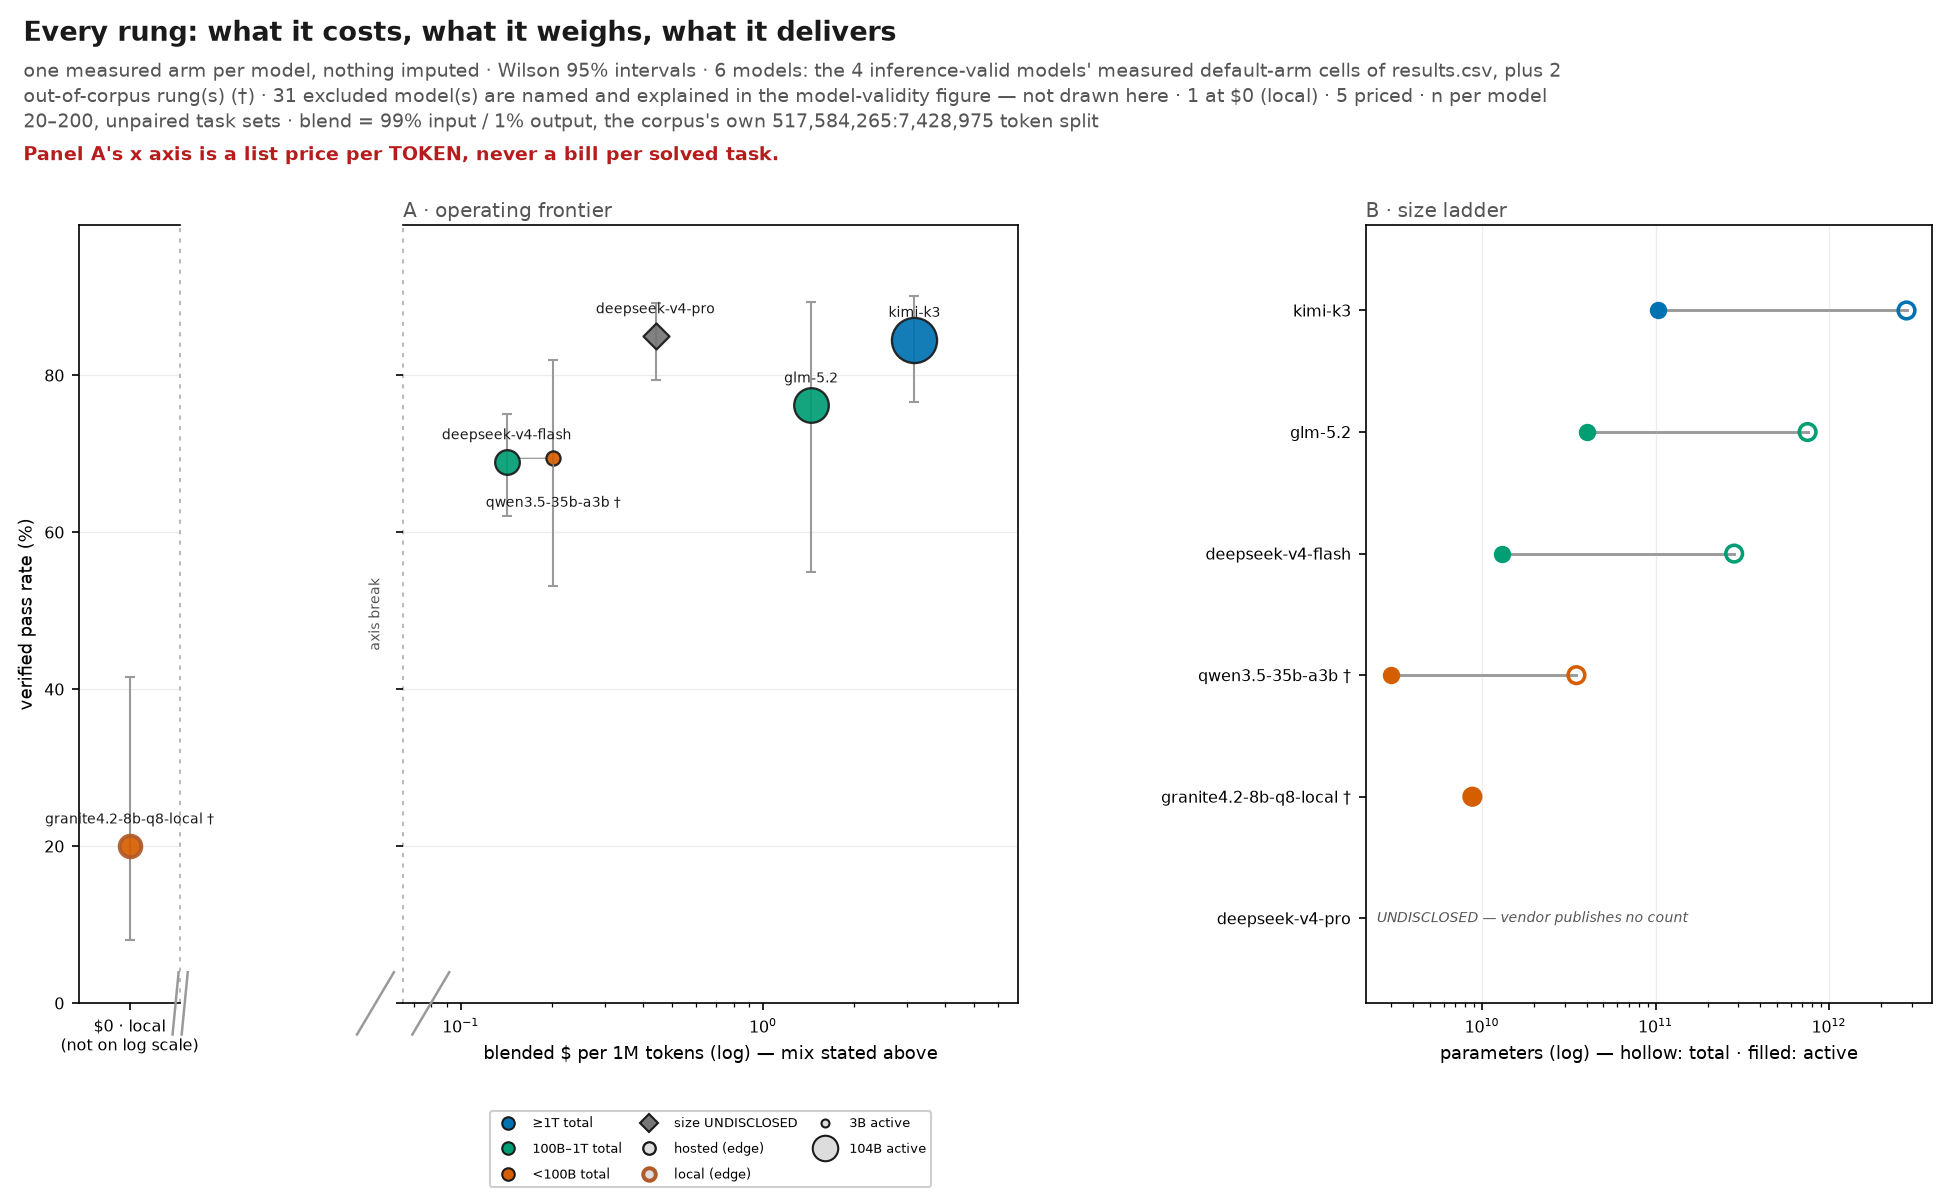
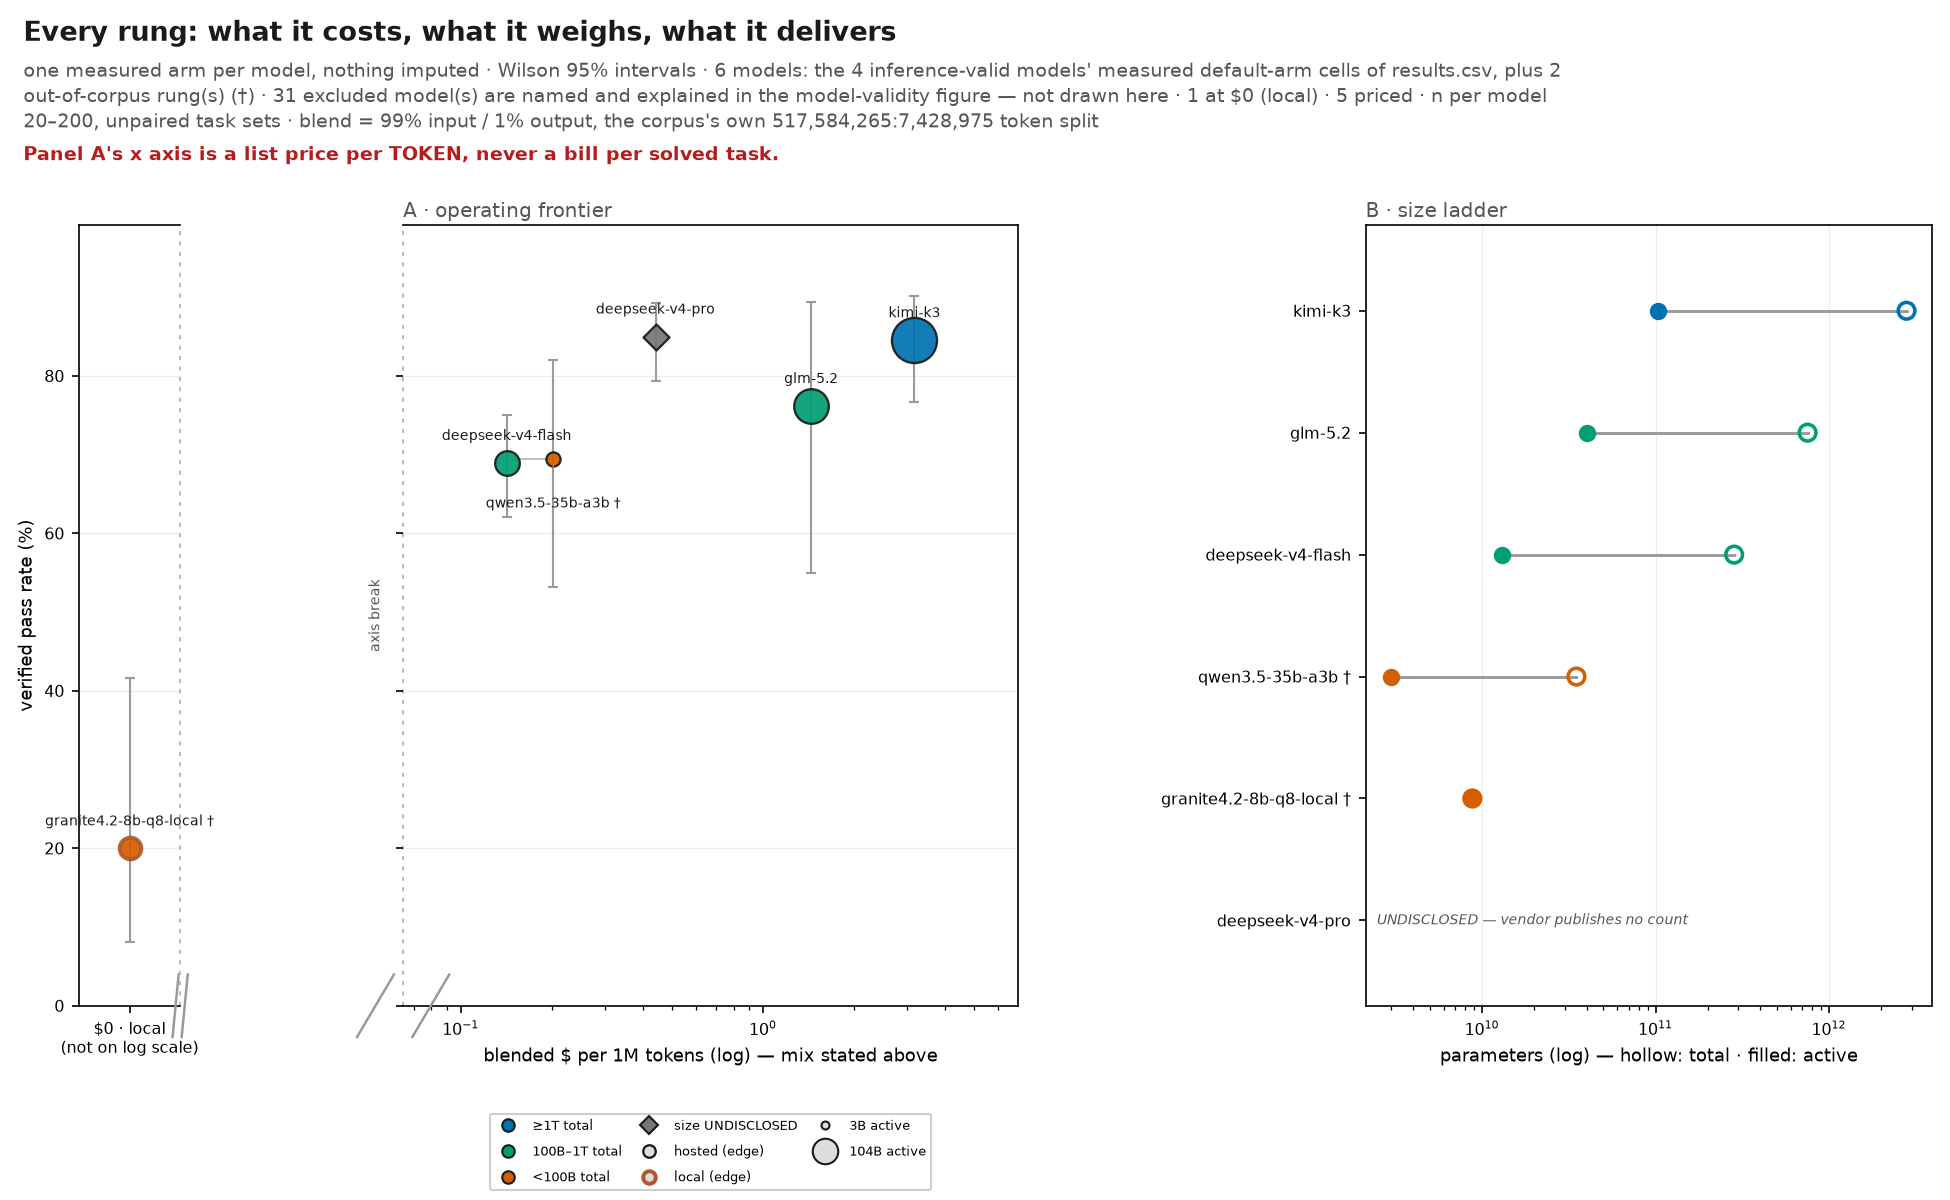
feat(pipeline): model_identity.yaml is a figure-digest input (F6)
benchmark/routing/data/model_identity.yaml is read at figure time:
model_universe.resolve_identity (Tier-2 aliases) and
model_validity._version_aliases canonicalise every plotted label through it,
and every figure job's import closure reaches one of them. It was in no
digest, so a curated alias/merge moved labels and lane merges while
check-figures (SH017) stayed green. It is now in _data_inputs for every half.

Tests: every half digests it; structural guard (any job whose closure reaches
a load_identity( call site digests it); positive control per half. Manifest
recertified with `python -m benchmark.pipeline --from evaluate` (offline,
SHUNT_FREE_REGISTRY unset); report/data artifacts unchanged, PNGs redrawn.

diff --git a/benchmark/tests/test_pipeline.py b/benchmark/tests/test_pipeline.py
@@ -609,6 +609,52 @@ class TestStandaloneFigureFreshness:
             corpus.write_text("challenge,model,pass\nc1,m1,false\n")
             assert pipeline.figure_digests((job,))[job.name] != before
 
+    def test_the_model_identity_file_is_part_of_every_halfs_data_digest(self) -> None:
+        """`model_identity.yaml` is read at FIGURE time — `model_universe.resolve_identity`
+        (Tier-2 aliases) and `model_validity._version_aliases` canonicalise every plotted
+        model label through it — so a curated merge or alias moved the labels, the lane
+        merges and the per-model universe/validity numbers while check-figures stayed green.
+        Every half draws through those modules, so every half must fingerprint it."""
+        from benchmark.routing.scripts.scan_free_models import IDENTITY_PATH
+
+        for half in pipeline.FIGURE_HALVES:
+            assert IDENTITY_PATH in pipeline._data_inputs(half), half
+
+    def test_every_job_reading_model_identity_digests_it(self) -> None:
+        """Structural guard: a producer whose import closure reaches a `load_identity(` call
+        site must fingerprint the identity file, or its figures outlive a curated edit."""
+        from benchmark.routing.scripts.scan_free_models import IDENTITY_PATH
+
+        reading = 0
+        for job in pipeline.FIGURE_JOBS:
+            seeds = [f for f in (pipeline._first_party_file(job.module),) if f is not None]
+            seeds.extend(p for p in pipeline._declared_files(job.inputs) if p.suffix == ".py")
+            closure = pipeline._import_closure(tuple(sorted(seeds)))
+            readers = [p for p in closure if "load_identity(" in p.read_text()]
+            if readers:
+                reading += 1
+                assert IDENTITY_PATH in pipeline._job_digest_paths(job), (job.name, readers[:3])
+        # Not vacuous: a rename of the call site must fail here, not pass with nothing checked.
+        assert reading > 0
+
+    @pytest.mark.parametrize("half", ["routing", "escalation", "inference", "demo"])
+    def test_a_model_identity_edit_moves_the_digest(
+        self, half: str, monkeypatch: pytest.MonkeyPatch
+    ) -> None:
+        """Positive control: one changed byte in the identity file must change the digest of
+        a job in every half. The scratch file lives under the repo because `_digest` keys each
+        file by its repo-relative path."""
+        import tempfile
+
+        job = next(j for j in pipeline.FIGURE_JOBS if j.half == half)
+        with tempfile.TemporaryDirectory(dir=pipeline._REPO_ROOT) as scratch:
+            identity = Path(scratch) / "model_identity.yaml"
+            monkeypatch.setattr(pipeline, "_MODEL_IDENTITY", identity)
+            identity.write_text("models: {}\n")
+            before = pipeline.figure_digests((job,))[job.name]
+            identity.write_text("models: {a: {}}\n")
+            assert pipeline.figure_digests((job,))[job.name] != before
+
     def test_a_configured_free_overlay_is_part_of_the_digest(self, tmp_path: Path) -> None:
         """`model_validity` and `collection_priority` price free rows through the overlay
         registry (SHUNT_FREE_REGISTRY), so a figure drawn with an overlay is not the figure
@@ -1106,6 +1152,7 @@ class TestInferenceFigureJob:
             "models.yaml",
             "router.yaml",
             config.free_results_csv_path().name,
+            "model_identity.yaml",
         }
 
     def test_the_shipped_drawing_package_is_part_of_the_digest(self) -> None:

diff --git a/benchmark/pipeline.py b/benchmark/pipeline.py
@@ -866,6 +866,15 @@ def _free_inputs() -> tuple[Path, ...]:
     return (config.free_results_csv_path(), *((overlay,) if overlay is not None else ()))
 
 
+# The curated identity file (`scan_free_models.IDENTITY_PATH`). It is read at FIGURE time:
+# `model_universe.resolve_identity` maps provider listing ids through its Tier-2 aliases and
+# `model_validity._version_aliases` merges `model_version` slugs through it, so a curated edit
+# re-labels and re-merges plotted models with no corpus or code change. Every figure job's import
+# closure reaches one of them (`test_every_job_reading_model_identity_digests_it`), so every half
+# carries it — DATA, which the closure alone cannot see.
+_MODEL_IDENTITY: Final[Path] = _ROUTING / "data" / "model_identity.yaml"
+
+
 def _data_inputs(half: str = "routing") -> tuple[Path, ...]:
     """The measured outcomes + task set a half's figures are derived from."""
     if half in ("inference", "demo"):
@@ -887,6 +896,7 @@ def _data_inputs(half: str = "routing") -> tuple[Path, ...]:
             _REPO_ROOT / "src" / "shunt" / "config" / "router.yaml",
             # The free corpus (+ overlay) — see `_free_inputs` for why every half carries it.
             *_free_inputs(),
+            _MODEL_IDENTITY,
         )
     if half == "escalation":
         return (
@@ -911,10 +921,12 @@ def _data_inputs(half: str = "routing") -> tuple[Path, ...]:
             _REPO_ROOT / "src" / "shunt" / "config" / "router.yaml",
             # The free corpus (+ overlay) — see `_free_inputs` for why every half carries it.
             *_free_inputs(),
+            _MODEL_IDENTITY,
         )
     return (
         config.results_csv_path(),
         *_free_inputs(),
+        _MODEL_IDENTITY,
         config.challenges_path(),
         _REPO_ROOT / "benchmark" / "benchmark.yaml",
         # The routing strategies and coverage read each model's canonical DEFAULT-ARM row

diff --git a/docs/benchmark.md b/docs/benchmark.md
@@ -479,7 +479,9 @@ old PNG. The same gate also runs at **commit time** as the `SH017` pre-commit ho
 being re-recorded for it — is refused on the commit that would ship it, not surfaced later as a
 red `benchmark-integrity` job. The data a figure is fingerprinted against includes both corpora,
 `routing/results.csv` and the free corpus `routing/results_free.csv`, so re-harvesting either one
-re-stales the figures drawn from it. Fix a red `SH017` by re-running the certifying pipeline stage(s),
+re-stales the figures drawn from it — and, in every half, the curated identity file
+`routing/data/model_identity.yaml`, because model labels are canonicalised and merged through it
+at draw time, so a curated alias or merge re-stales every figure too. Fix a red `SH017` by re-running the certifying pipeline stage(s),
 e.g. `uv run --extra benchmark python -m benchmark.pipeline --from evaluate`; never by hand-editing
 `benchmark/routing/figure_inputs.json`.
 
